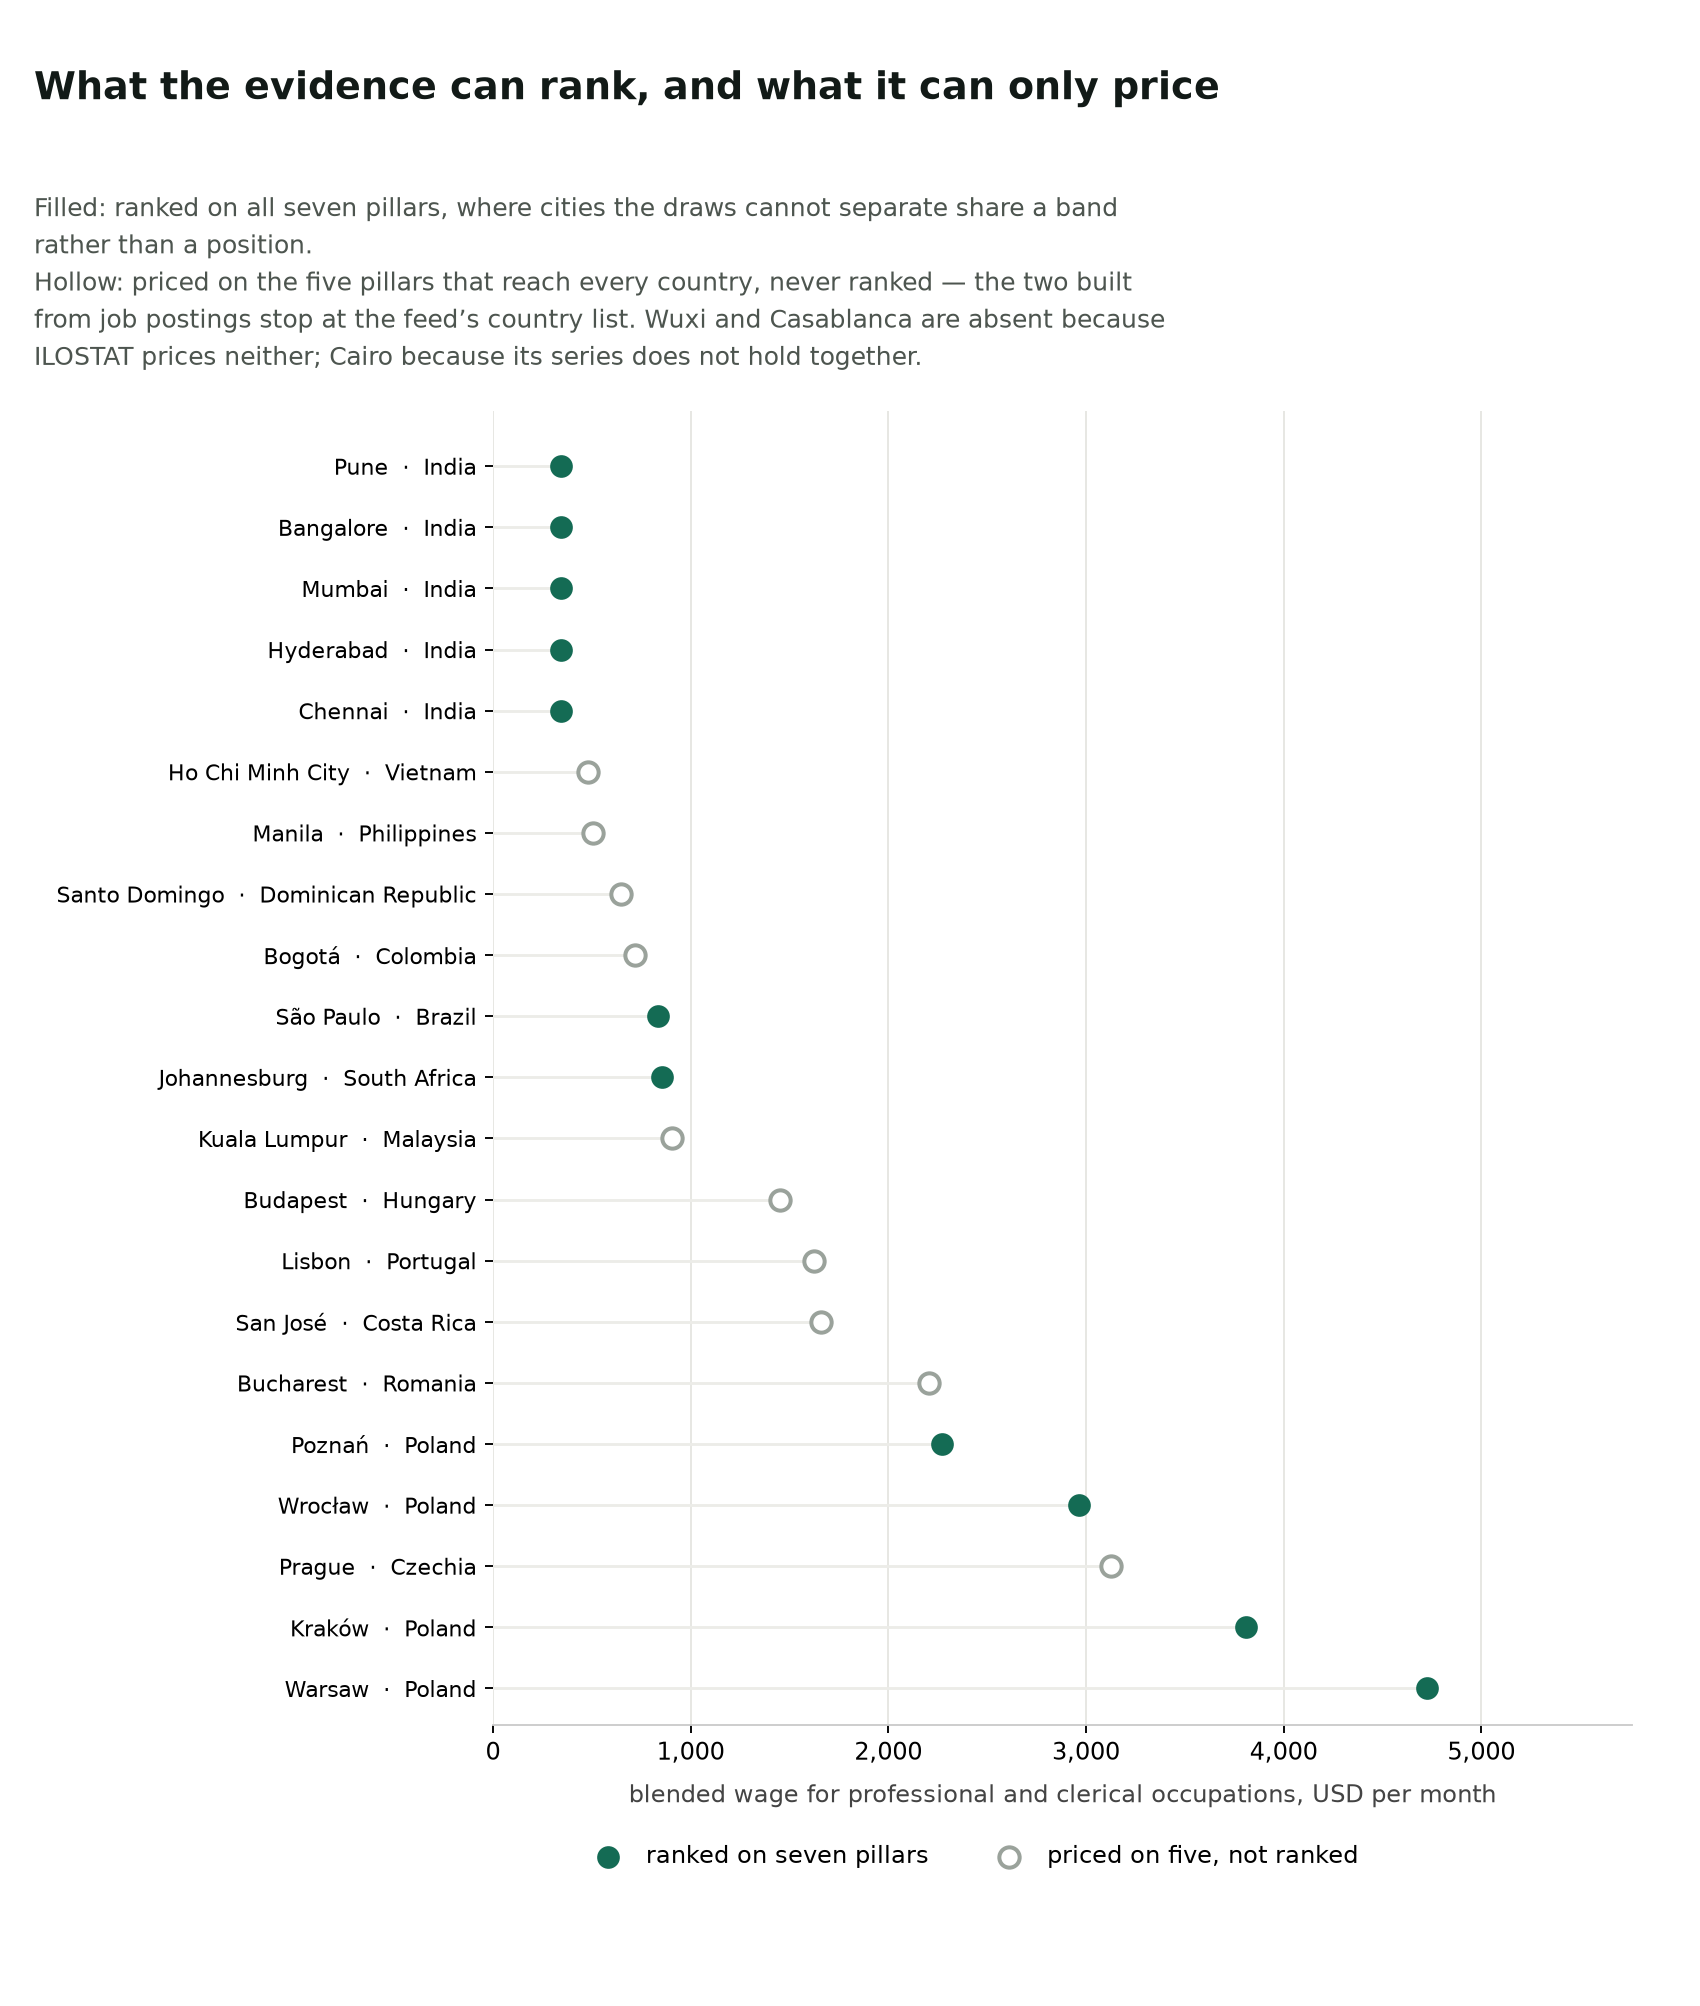
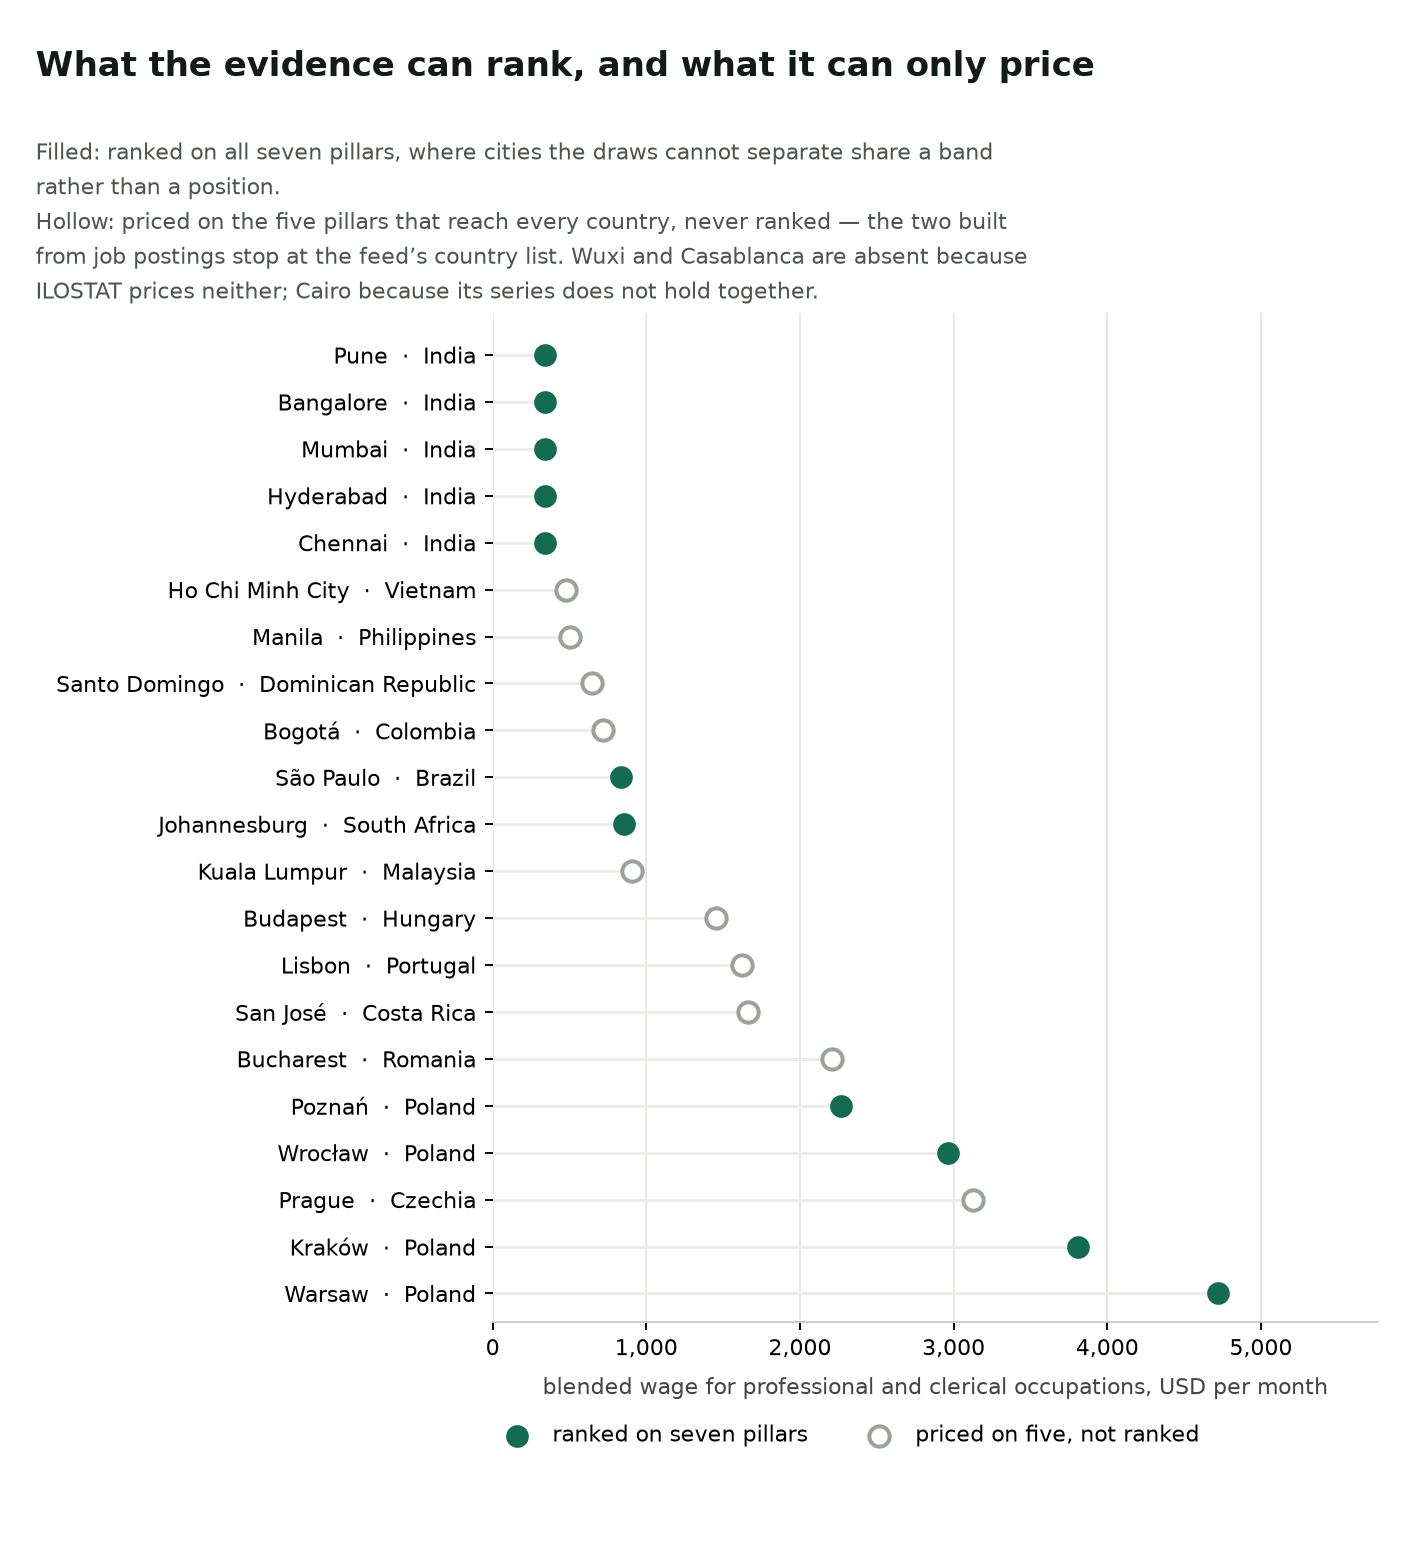
Draw the coverage chart at the size it is displayed
The card renders this at 704px and the figure was 1700px wide, so it
arrived scaled to 41% and the axis labels landed at nine pixels.

Displayed type size is fontsize times 9.78 divided by figure width in
inches -- the dpi cancels out -- so the lever is a narrower figure, not a
larger font on a wide one. At 8.4 inches the labels read at eleven
pixels.

The site already carries the redrawn PNG; this is the code that produces
it, which should not have been left behind.

diff --git a/src/analyze.py b/src/analyze.py
@@ -76,7 +76,7 @@ def chart(panel, results, path):
             color="#8a8a84", ha="right", va="center", style="italic")
 
     fig.text(0.02, 0.955, "Which markets survive a change of mind",
-             fontsize=16, fontweight="bold", color="#121a17", va="top")
+             fontsize=14.5, fontweight="bold", color="#121a17", va="top")
     fig.text(
         0.02, 0.895,
         "Ten markets scored on six pillars — cost, talent, governance, demonstrated capability, hours\n"
@@ -390,7 +390,7 @@ def centres_chart(panel, path):
     ax.set_axisbelow(True)
 
     fig.text(0.02, 0.955, "Where GBS and GCC work is actually advertised",
-             fontsize=16, fontweight="bold", color="#121a17", va="top")
+             fontsize=14.5, fontweight="bold", color="#121a17", va="top")
     fig.text(
         0.02, 0.893,
         f"{sum(len(v) for v in grouped.values())} locations where GBS or GCC finance roles are advertised by four or more\n"
@@ -433,9 +433,12 @@ def coverage_chart(path):
     ]
     rows = sorted(ranked + priced, key=lambda r: r["cost"])
 
-    fig, ax = plt.subplots(figsize=(10, 0.40 * len(rows) + 3.4))
+    # The card renders this at 704px. Displayed type size is fontsize x 9.78 /
+    # figure width in inches -- the dpi cancels -- so a narrower figure is what
+    # makes the labels legible, not a bigger font on a wider one.
+    fig, ax = plt.subplots(figsize=(8.4, 0.30 * len(rows) + 2.9))
     fig.patch.set_facecolor("white")
-    fig.subplots_adjust(top=0.795, bottom=0.14, left=0.29, right=0.96)
+    fig.subplots_adjust(top=0.80, bottom=0.155, left=0.345, right=0.965)
 
     for row, r in enumerate(rows):
         ax.plot([0, r["cost"]], [row, row], color="#ececE8", lw=1.2, zorder=1)
@@ -453,31 +456,31 @@ def coverage_chart(path):
     ax.set_ylim(len(rows) - 0.4, -0.9)
     ax.set_xlim(0, max(r["cost"] for r in rows) * 1.22)
     ax.set_xlabel("blended wage for professional and clerical occupations, USD per month",
-                  fontsize=10, color="#444", labelpad=8)
+                  fontsize=9.5, color="#444", labelpad=7)
     ax.xaxis.set_major_formatter(lambda v, _: f"{v:,.0f}")
-    ax.tick_params(axis="x", labelsize=10)
+    ax.tick_params(axis="x", labelsize=9.5)
     for spine in ("top", "right", "left"):
         ax.spines[spine].set_visible(False)
     ax.spines["bottom"].set_color("#cccccc")
     ax.grid(axis="x", color="#e6e6e2", lw=0.8)
     ax.set_axisbelow(True)
 
-    fig.text(0.02, 0.965, "What the evidence can rank, and what it can only price",
-             fontsize=16, fontweight="bold", color="#121a17", va="top")
+    fig.text(0.025, 0.968, "What the evidence can rank, and what it can only price",
+             fontsize=14.5, fontweight="bold", color="#121a17", va="top")
     fig.text(
-        0.02, 0.905,
+        0.025, 0.913,
         "Filled: ranked on all seven pillars, where cities the draws cannot separate share a band\n"
         "rather than a position.\n"
         "Hollow: priced on the five pillars that reach every country, never ranked \u2014 the two built\n"
         "from job postings stop at the feed\u2019s country list. Wuxi and Casablanca are absent because\n"
         "ILOSTAT prices neither; Cairo because its series does not hold together.",
-        fontsize=10.5, color="#4d554f", va="top", linespacing=1.5)
+        fontsize=9.5, color="#4d554f", va="top", linespacing=1.55)
 
     ax.scatter([], [], s=74, color=ROBUST_COLOR, label="ranked on seven pillars")
     ax.scatter([], [], s=74, facecolor="white", edgecolor="#9aa29b", linewidth=1.7,
                label="priced on five, not ranked")
-    ax.legend(loc="upper center", bbox_to_anchor=(0.42, -0.075), ncol=2,
-              frameon=False, fontsize=10, handletextpad=0.6, columnspacing=2.4)
+    ax.legend(loc="upper center", bbox_to_anchor=(0.40, -0.082), ncol=2,
+              frameon=False, fontsize=9.5, handletextpad=0.6, columnspacing=2.2)
 
     fig.savefig(path, dpi=170, facecolor="white")
     plt.close(fig)
@@ -526,7 +529,7 @@ def filter_chart(broad, focused, path):
     ax.set_axisbelow(True)
 
     fig.text(0.02, 0.955, "What the old sample was actually measuring",
-             fontsize=16, fontweight="bold", color="#121a17", va="top")
+             fontsize=14.5, fontweight="bold", color="#121a17", va="top")
     fig.text(
         0.02, 0.888,
         "Hollow: a broad finance-operations sample, where only 13% of postings carried any shared-services\n"
